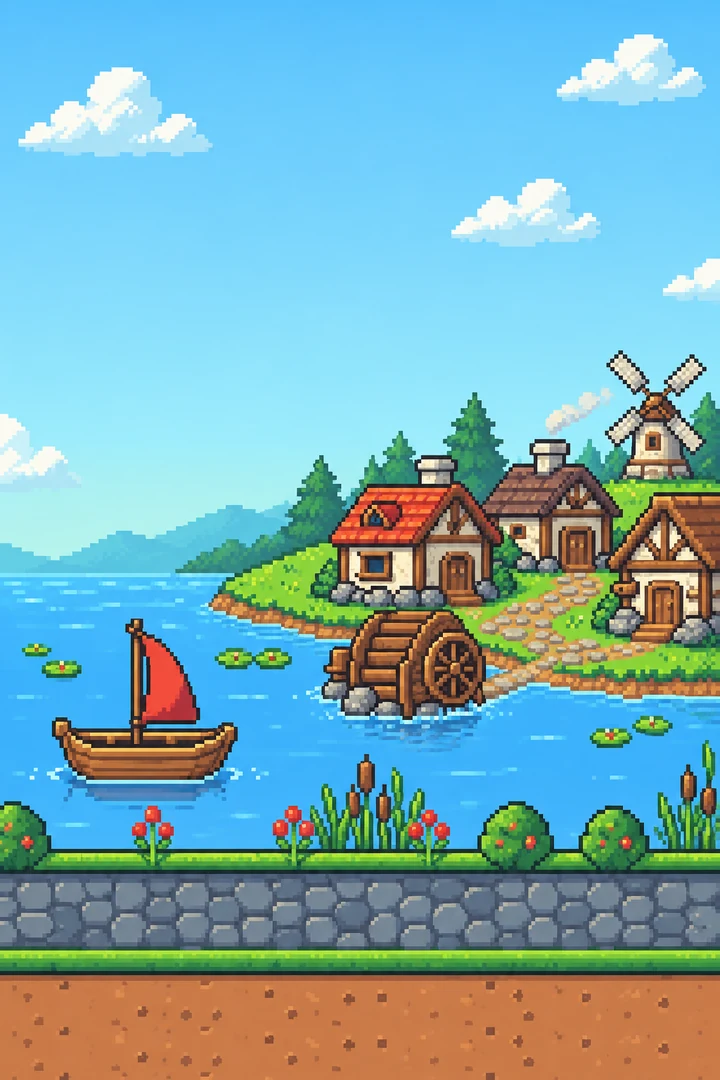
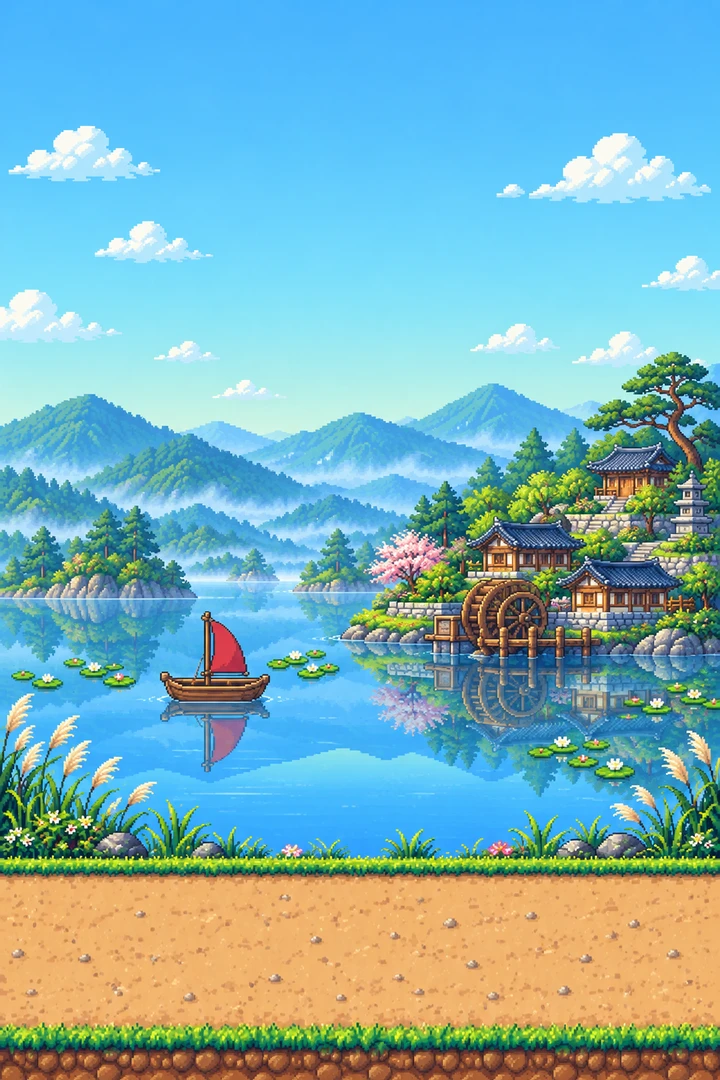
feat(wallpaper): 호수 배경화면을 v4 C안으로 교체 — 맑은 낮 섬 마을 · 물레방아 · 빨간 돛배
- lake_bg.webp (720x1080) · lake_thumb.webp (340x220): ddong-fx-work/backgrounds/v4/lake — 크기·형식(WEBP RGB) 같음
- 수집 썸네일 ui/collection/wp/wp_lake.webp 를 새 그림으로 다시 구움 (bake_ingame.py 와 같은 규칙: 아래쪽 340x220)
- 땅 팔레트를 lake_v4_info.json 의 C 값으로 (재질은 그대로 soil)
- 설명: '물레방아 도는 섬 마을과 빨간 돛배가 떠 있는 맑은 호수'

diff --git a/src/utils/background.ts b/src/utils/background.ts
@@ -84,7 +84,7 @@ export const GROUND_FX: Readonly<Record<string, GroundFx>> = {
   background3:      fromDebris('stone',    { light: 0xc49997, mid: 0xb79296, dark: 0x77667d, outline: 0x30364d }, 0xbf9fa0),
   xmas_background:  fromDebris('snow',     { light: 0xfffefe, mid: 0xfefefe, dark: 0xcfebfc, outline: 0x90a4b0 }, 0xf4f3f3),
   wp_hanok_bg:      fromDebris('soil',     { light: 0xfdc171, mid: 0xf4af67, dark: 0xda7636, outline: 0x292829 }, 0xeeba7e),
-  wp_lake_bg:       fromDebris('soil',     { light: 0xfa9c61, mid: 0xca7a48, dark: 0x915834, outline: 0x623928 }, 0xdb956a),
+  wp_lake_bg:       fromDebris('soil',     { light: 0xffdf8b, mid: 0xf1b36c, dark: 0xae814e, outline: 0x625837 }, 0xeec789),   // 호수 C (v4) — 맑은 낮 섬 마을 흙길
   wp_maehwa_bg:     fromDebris('snow',     { light: 0xffffff, mid: 0xbab5e5, dark: 0x908cb1, outline: 0x5a586f }, 0xd5d3e8),   // 설중매 C2 (v5) — 눈 덮인 땅
   wp_gold_mine_bg:  fromDebris('soil',     { light: 0xed9b57, mid: 0xb26f44, dark: 0x4c3b33, outline: 0x1a1413 }, 0xcb9065),
   wp_fantasy_bg:    fromDebris('stone',    { light: 0xdca896, mid: 0xb094a0, dark: 0x837997, outline: 0x3f425e }, 0xc4a5a4),

diff --git a/src/utils/wallpaper.ts b/src/utils/wallpaper.ts
@@ -62,7 +62,7 @@ export const WALLPAPERS: BackgroundDef[] = [
     thumbPath: 'assets/wallpapers/lake_thumb.webp',
     bgKey: 'wp_lake_bg',
     bgPath: 'assets/wallpapers/lake_bg.webp',
-    description: '잔물결 하나 없이 하늘을 담은 새벽 호수',
+    description: '물레방아 도는 섬 마을과 빨간 돛배가 떠 있는 맑은 호수',
   },
   {
     id: 'wp_maehwa',
